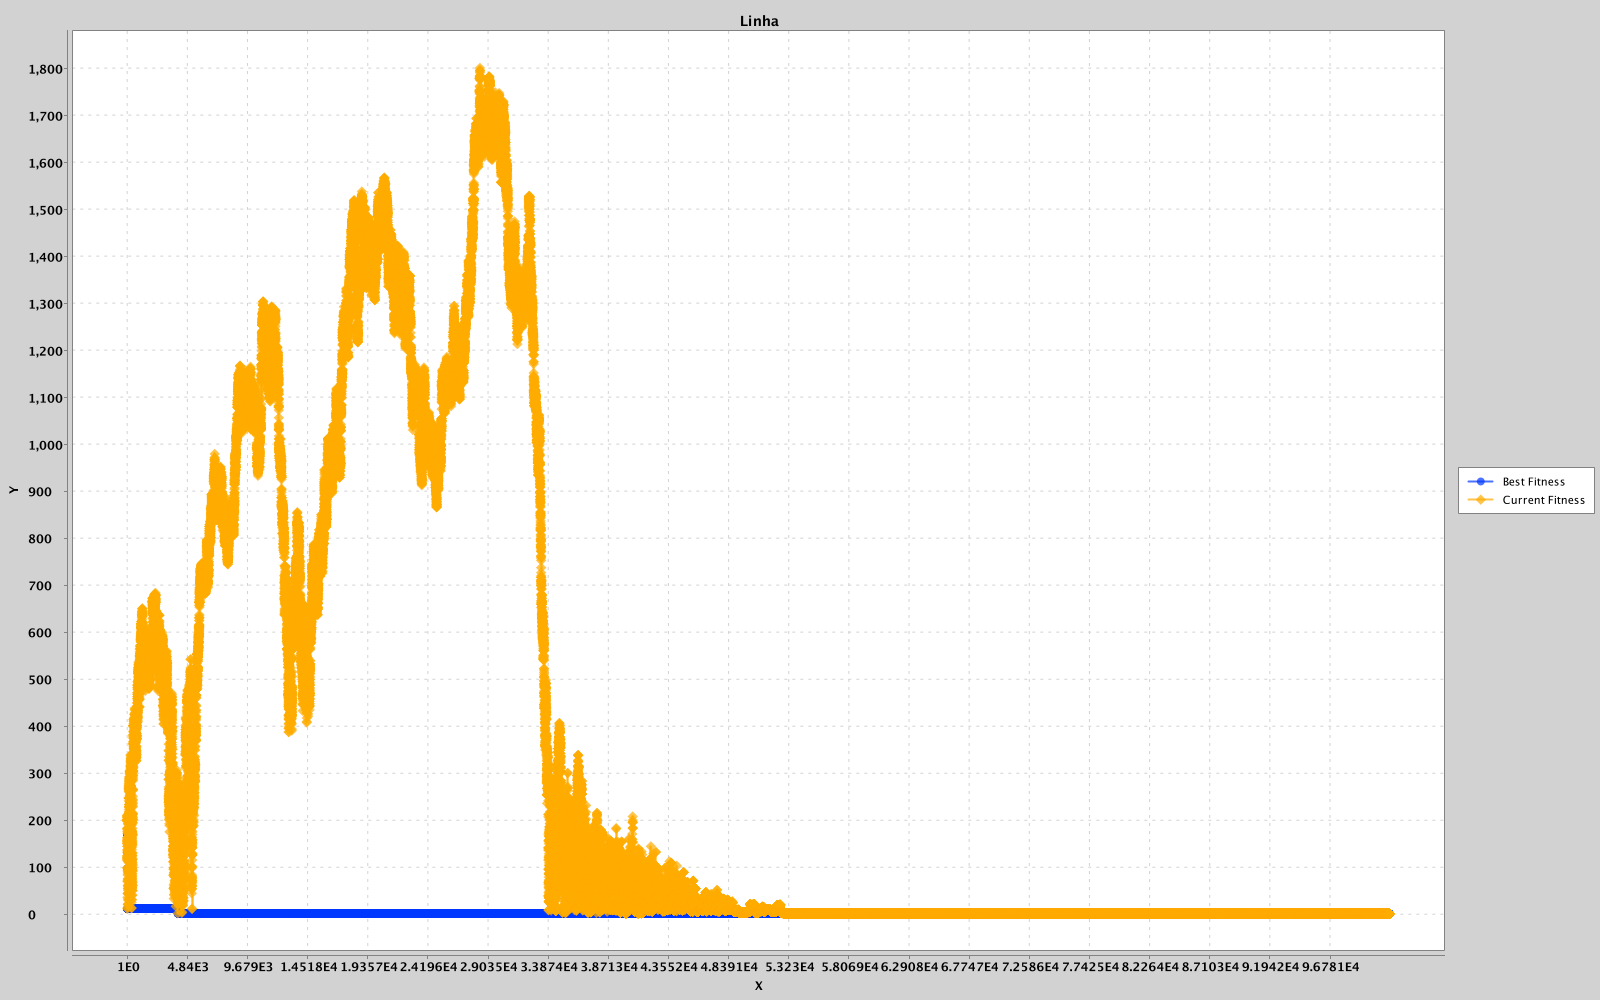
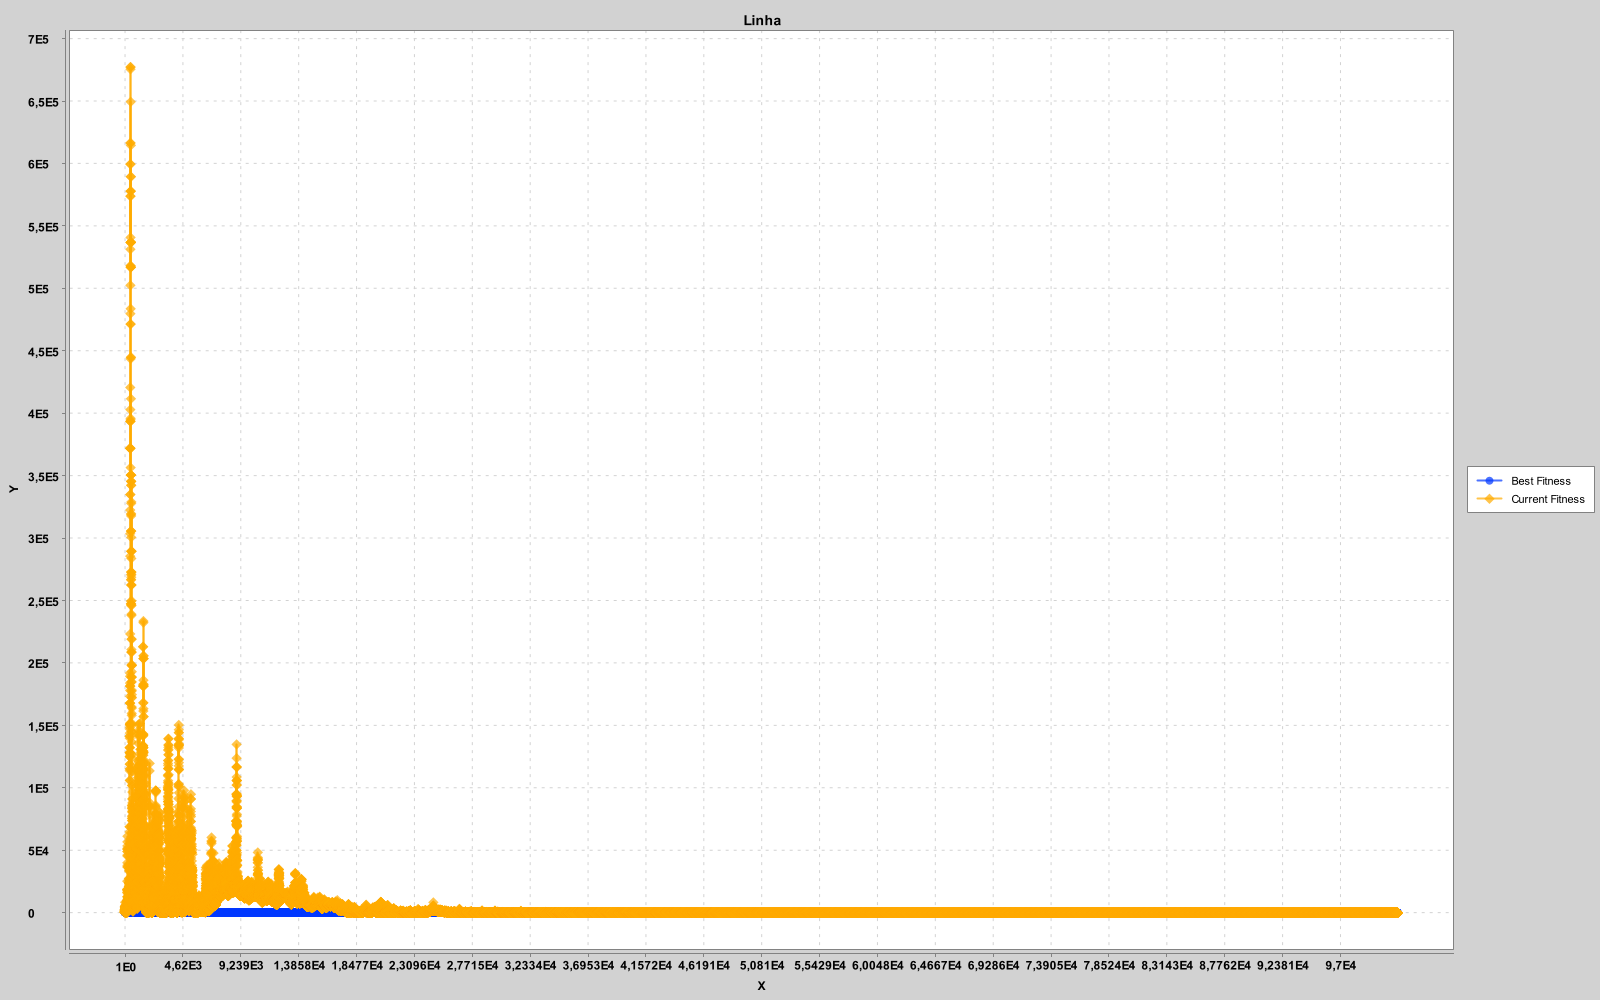
finalizando

Changed region(s): [[0.0, 0.031, 1.0, 0.992], [0.4688, 0.0, 0.5, 0.031]]

diff --git a/src/com/leandersonandre/optimization/Main.java b/src/com/leandersonandre/optimization/Main.java
@@ -6,15 +6,15 @@ import com.leandersonandre.optimization.sa.operator.GaussianOperator;
 
 public class Main {
     public static void main(String[] args) {
-        SimulatedAnnealing sa = new SimulatedAnnealing(
-                FunctionFactory.getInstance().getFunction("BUKIN6"),
-                new GaussianOperator(.5),
-                0.96,
-                200,
-                100_000,
-                2
-        );
-        sa.execute();
+//        SimulatedAnnealing sa = new SimulatedAnnealing(
+//                FunctionFactory.getInstance().getFunction("BUKIN6"),
+//                new GaussianOperator(.5),
+//                0.96,
+//                200,
+//                100_000,
+//                2
+//        );
+//        sa.execute();
 
         SimulatedAnnealing saZakharov = new SimulatedAnnealing(
             FunctionFactory.getInstance().getFunction("ZAKHAROV"),
@@ -26,15 +26,15 @@ public class Main {
         );
         saZakharov.execute();
 
-        SimulatedAnnealing saPowerSum = new SimulatedAnnealing(
-            FunctionFactory.getInstance().getFunction("POWERSUM"),
-            new GaussianOperator(.5),
-        0.96,
-200,
-100_000,
-2
-        );
-        saPowerSum.execute();
+//        SimulatedAnnealing saPowerSum = new SimulatedAnnealing(
+//            FunctionFactory.getInstance().getFunction("POWERSUM"),
+//            new GaussianOperator(.5),
+//        0.96,
+//200,
+//100_000,
+//2
+//        );
+//        saPowerSum.execute();
 
     }
 }

diff --git a/src/com/leandersonandre/optimization/function/FunctionFactory.java b/src/com/leandersonandre/optimization/function/FunctionFactory.java
@@ -14,6 +14,8 @@ public class FunctionFactory {
         return switch (functionName) {
             case "ACKLEY" -> new AckleyFunction();
             case "BUKIN6" -> new BukinFunctionN6();
+            case "ZAKHAROV" -> new ZakharovFunction();
+            case "POWERSUM" -> new PowerSumFunction();
             default -> throw new IllegalArgumentException("Unknown function name: " + functionName);
         };
     }
